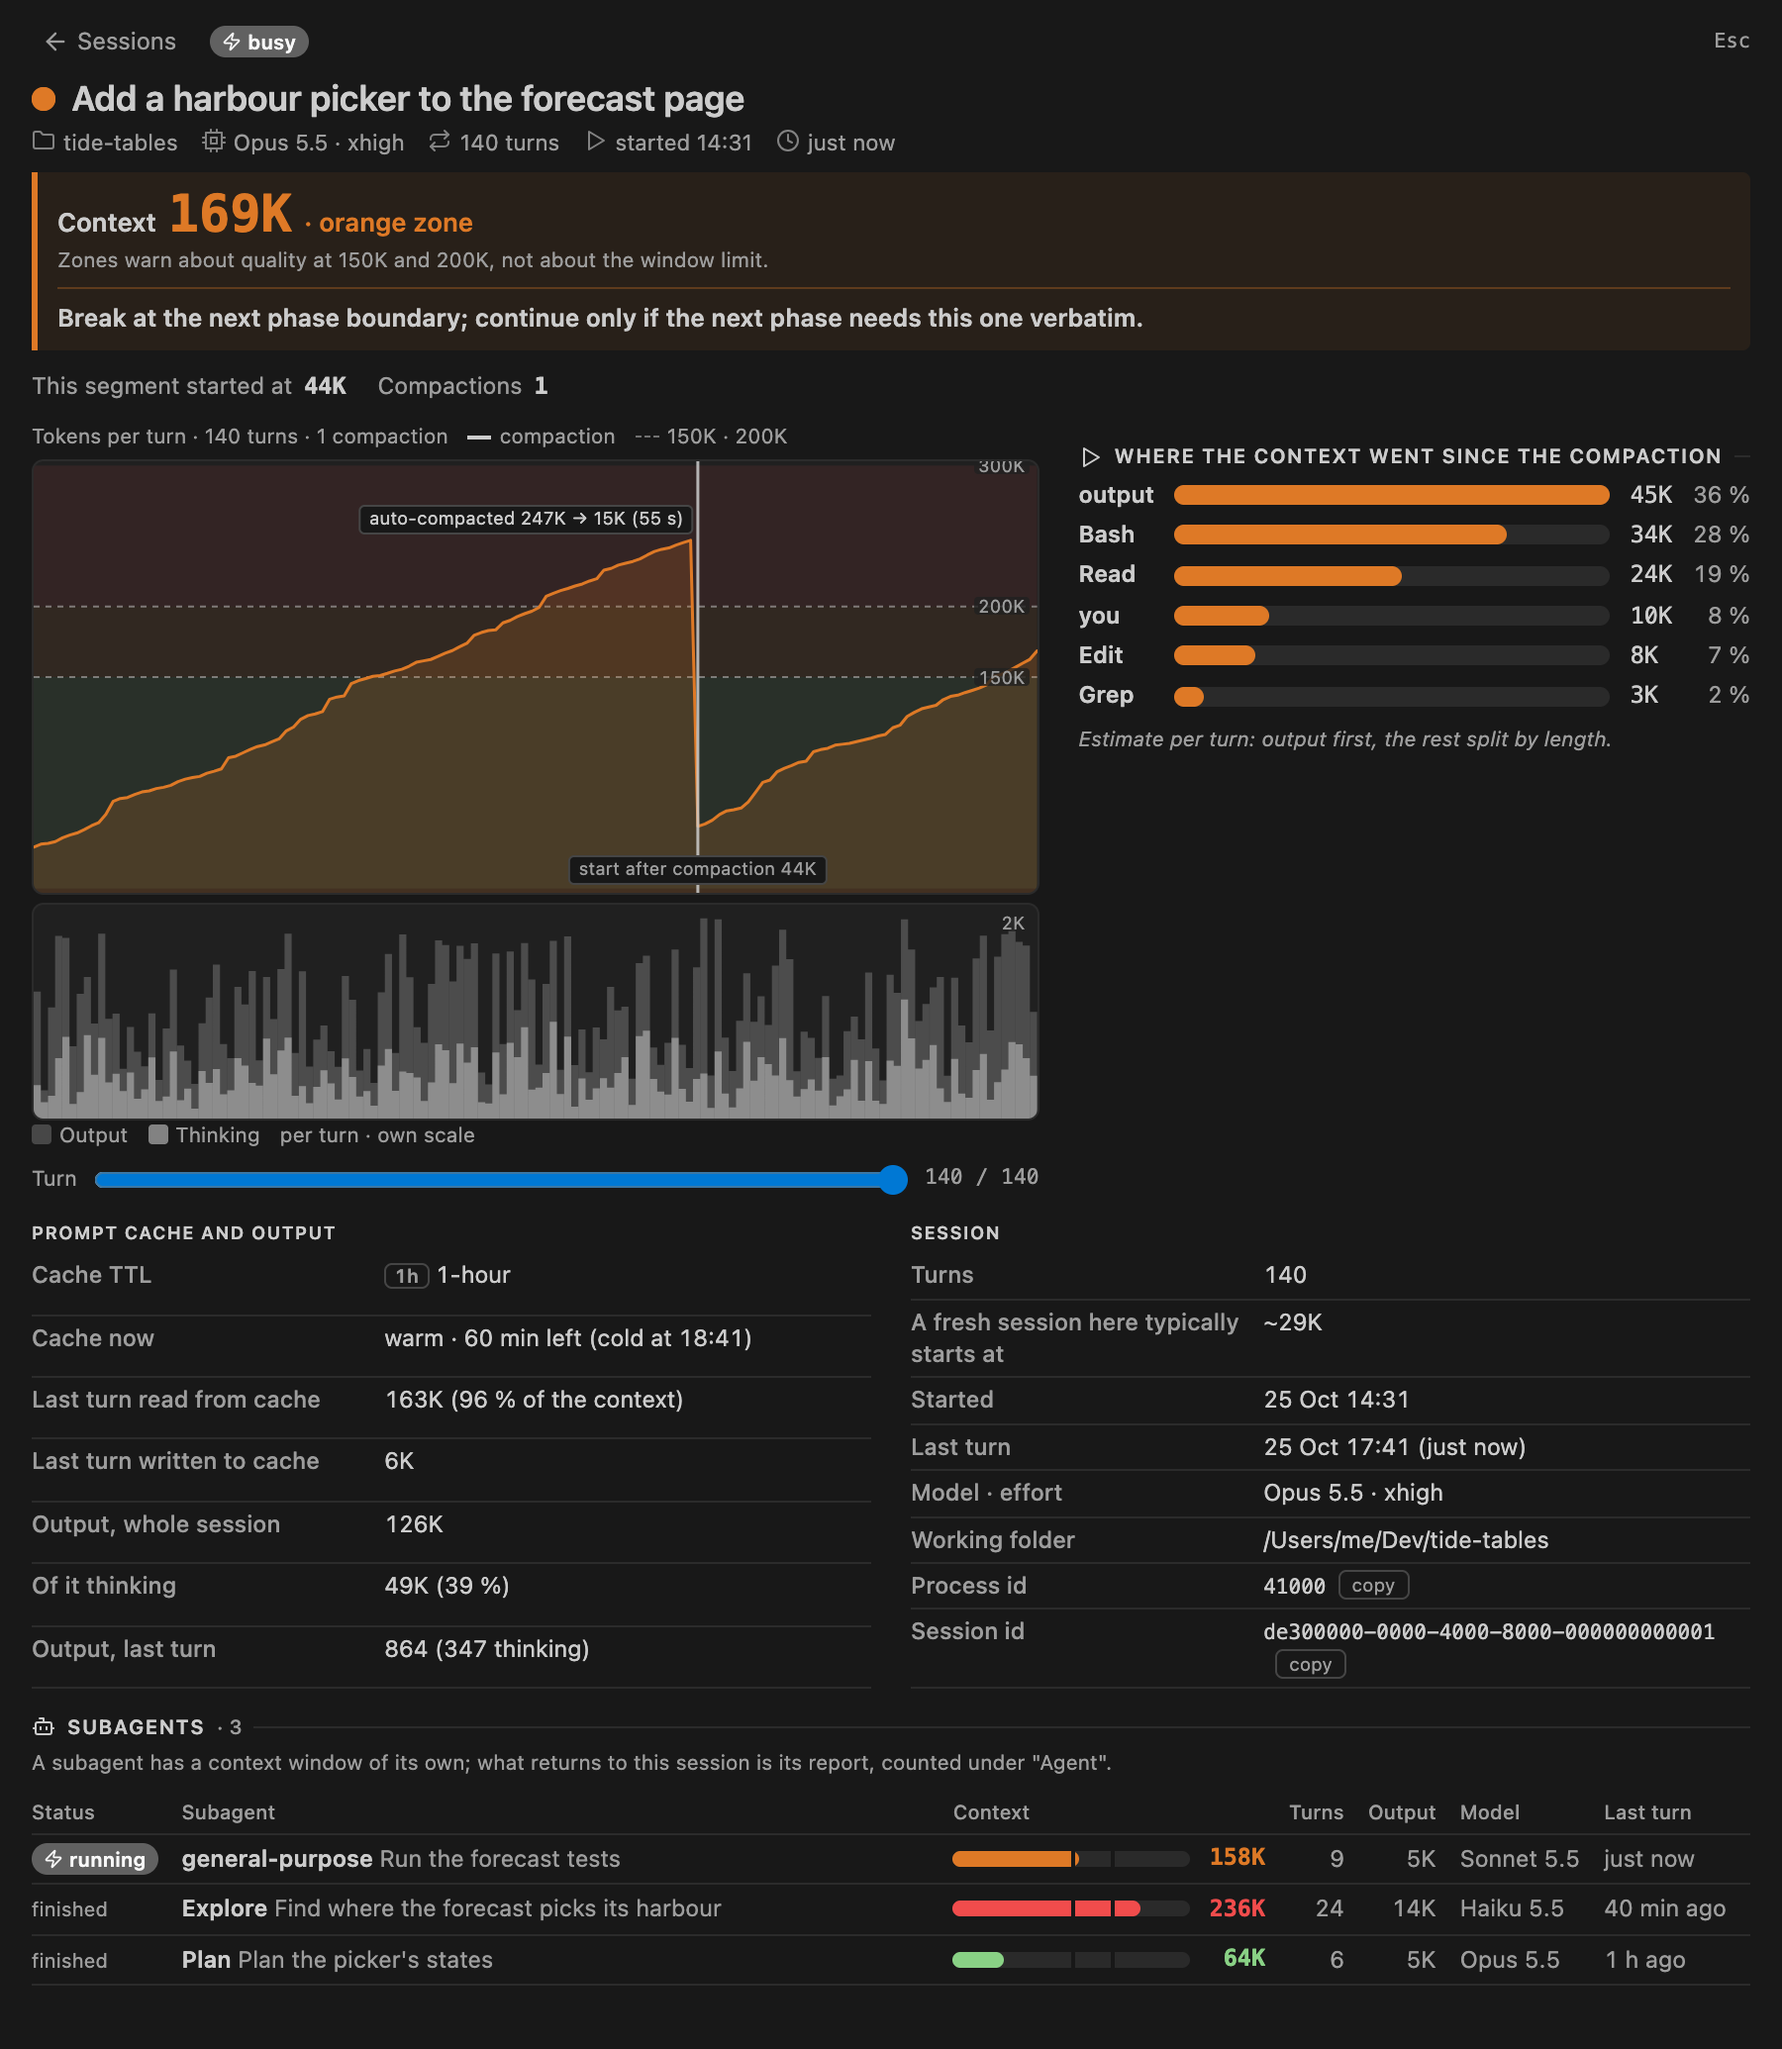
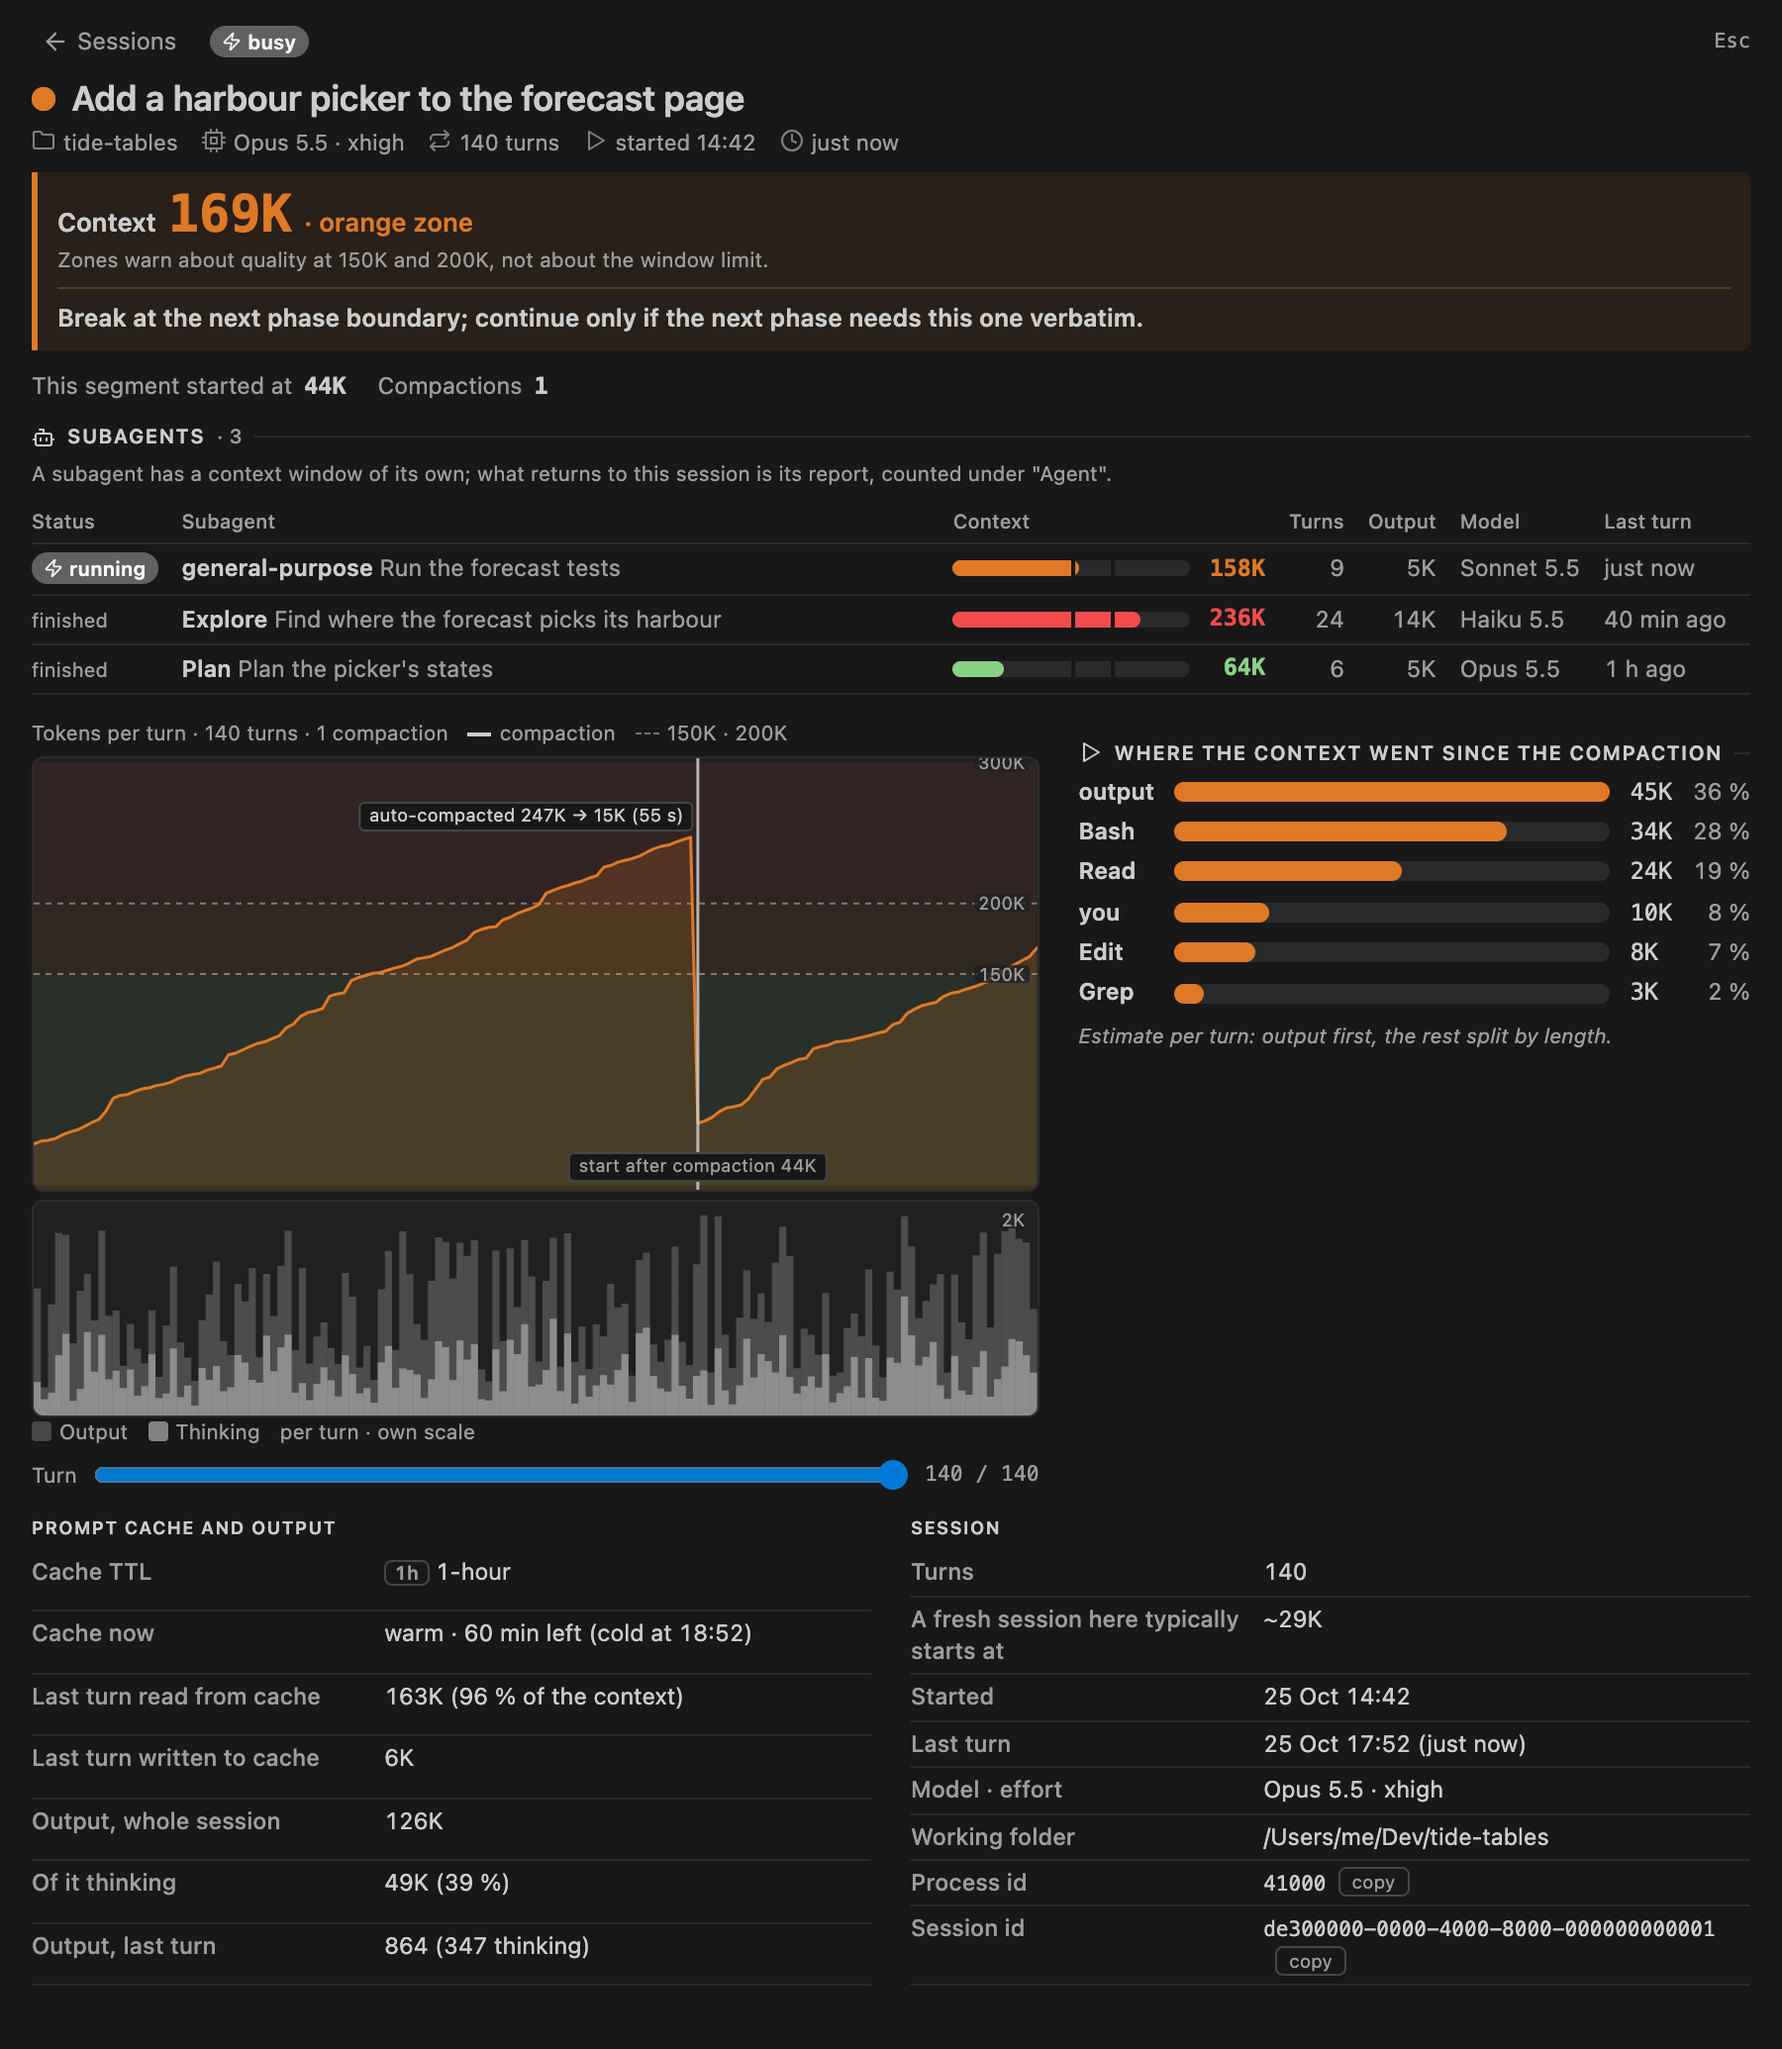
#66 The detail view shows the subagents under the context box, above the curve
The owner had to scroll to the bottom of the detail view to see the subagents. Their own windows belong with
the session's count, so the table now follows the context box and its named facts, before the curve; the README
and the detail image follow.

diff --git a/test/panel.test.js b/test/panel.test.js
@@ -562,7 +562,7 @@ describe("panel: subagents", () => {
     expect(p.row("a").dataset.zone).toBe("green"); // the session's own zone: a subagent's count is not the session's
   });
 
-  it("the detail view lists them under the facts in the core's order, running first, with their zones, and says why they are separate", () => {
+  it("the detail view lists them under the context box, above the curve, in the core's order, running first, with their zones, and says why they are separate", () => {
     const a = { ...session("a"), agents: agents([["x1", 40000, { ago: 9 * MIN }], ["x2", 230000, { ago: 2 * MIN }], ["x3", 160000, { finished: false, ago: 20 * MIN }], ["x4", null, { ago: 30 * MIN }]]) };
     const p = panel();
     p.send(list([a]));
@@ -570,7 +570,8 @@ describe("panel: subagents", () => {
     expect(p.$("detail-subagents")).toBeNull(); // the rows come with the detail answer
     p.send(detailOf(a));
     const section = p.$("detail-subagents");
-    expect(section.previousElementSibling).toBe(p.$("detail-facts"));
+    expect(section.previousElementSibling).toBe(p.$("detail-named")); // the context box, then its named facts
+    expect(section.nextElementSibling.contains(p.$("detail-curve"))).toBe(true);
     expect(section.textContent).toMatch(/A subagent has a context window of its own; what returns to this session is its report, counted under "Agent"\./);
     const rows = p.$$("subagent");
     expect(rows.map((r) => [r.querySelector(".kx-d-a-who").textContent, r.dataset.status, r.dataset.zone])).toEqual([

diff --git a/panel.html b/panel.html
@@ -1634,7 +1634,7 @@
     return frag;
   }
 
-  /** The view of one session, top to bottom: top bar, title, meta line, the context box and named facts, curve and where the context went (side by side from 620 px), facts, subagents. */
+  /** The view of one session, top to bottom: top bar, title, meta line, the context box and named facts, the subagents, curve and where the context went (side by side from 620 px), facts. */
   function detailFor(session) {
     const root = zoned(el("article"), session.zone);
     root.dataset.session = session.sessionId;
@@ -1674,13 +1674,14 @@
     if (session.turns) add("clock", sinceText(session.sinceMs));
     root.appendChild(meta);
     root.appendChild(contextBlock(session));
+    // the subagents' own windows belong with the session's: under the context box, not below the fold (owner, 2026-10-25)
+    const agents = detailAgents(session);
+    if (agents) root.appendChild(agents);
     const pair = el("div", "kx-d-pair");
     pair.appendChild(detailCurve(session));
     pair.appendChild(detailGrowth(session));
     root.appendChild(pair);
     root.appendChild(detailFacts(session));
-    const agents = detailAgents(session);
-    if (agents) root.appendChild(agents);
     return root;
   }
 

diff --git a/README.md b/README.md
@@ -253,6 +253,14 @@ The detail view opens in the list's place:
   next phase boundary ("Break at the next phase boundary; continue only if the next phase needs this one
   verbatim."). Under it the named facts: "Session started at 29K" (or "This segment started at 44K"
   after a compaction) and "Compactions 1" when there was one.
+- When the session has subagents, a table of them right under the box, so it shows without scrolling: one line
+  each, running first and then by last turn, with its status, type and the description of its call, its own
+  context on a small bar with the rows' scale and zones, turns, output, model and last turn. One sentence says why it is separate: what returns to the session is the
+  subagent's report, counted under "Agent" in where the context went. "Running" means Claude Code has not
+  recorded its end and it was written since the session's process started; "finished", that the end is
+  recorded; "unknown", neither (a subagent cut off with an earlier process, as in a resumed session). A
+  background subagent that wakes again after its end stays "finished" for those turns, since its first end is
+  already on record.
 - A large curve of tokens per turn over the whole session, with the three zone bands, the limits labelled on its
   axis (only 200K when a long session stretches the scale so far that 150K would overlap it), every compaction
   labelled with its trigger and counts, and the segment's start. Under it, in a field half its height on the same
@@ -263,14 +271,6 @@ The detail view opens in the list's place:
   source, largest first, with one short line on how it is estimated (the whole of it in the tooltip).
 - Two tables: the prompt cache and output, and the session (what a fresh session here typically starts at,
   from the header's start median; working folder, process id and session id with a copy button).
-- When the session has subagents, a table of them: one line each, running first and then by last turn, with its
-  status, type and the description of its call, its own context on a small bar with the rows' scale and zones,
-  turns, output, model and last turn. One sentence says why it is separate: what returns to the session is the
-  subagent's report, counted under "Agent" in where the context went. "Running" means Claude Code has not
-  recorded its end and it was written since the session's process started; "finished", that the end is
-  recorded; "unknown", neither (a subagent cut off with an earlier process, as in a resumed session). A
-  background subagent that wakes again after its end stays "finished" for those turns, since its first end is
-  already on record.
 
 The list carries the last 200 turns of each session; the detail view asks the host for all of them, and says
 "last 200 of 233 turns" only if the host cannot answer. The view follows the live list, says so if the
